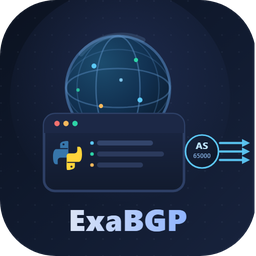
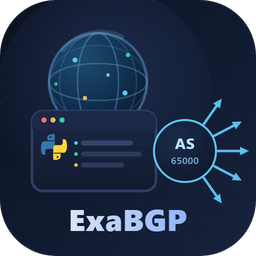
assets: AS 域放大近 2 倍，宣告箭头改为 5 条向外散射
- AS 圆域 r 33→62，文字放大（AS / 65000），贴着控制台右侧
- 宣告箭头 3→5 条，-55°/-27.5°/0°/+27.5°/+55° 呈光线状从圆外射出
- 控制台窗口与地球相应缩小/上移，保证 5 路箭头完整落在画布内

Changed region(s): [[0.0938, 0.0938, 1.0, 0.8125], [0.8125, 0.7188, 0.875, 0.8125]]

diff --git a/README.md b/README.md
@@ -172,4 +172,4 @@ docker run -d --name exabgp-v6 --network host \
 
 ---
 
-<sub>图标说明：地球经纬网格（区域 / 全球 IP 网段）+ 控制台窗口（WebUI，内含 Python 标识与待下发的路由条目）+ `AS 65000` 域（箭头起点）+ 三条平行宣告箭头（逐条把 BGP UPDATE 播给 CE）+ 底部 ExaBGP 字标。源文件 `assets/icon.svg`，可直接用于文档、镜像标注与 favicon。</sub>
+<sub>图标说明：地球经纬网格（区域 / 全球 IP 网段）+ 控制台窗口（WebUI，内含 Python 标识与待下发的路由条目）+ `AS 65000` 域 + 从该圆域向外散射的 5 条宣告箭头（BGP UPDATE）+ 底部 ExaBGP 字标。源文件 `assets/icon.svg`，可直接用于文档、镜像标注与 favicon。</sub>
